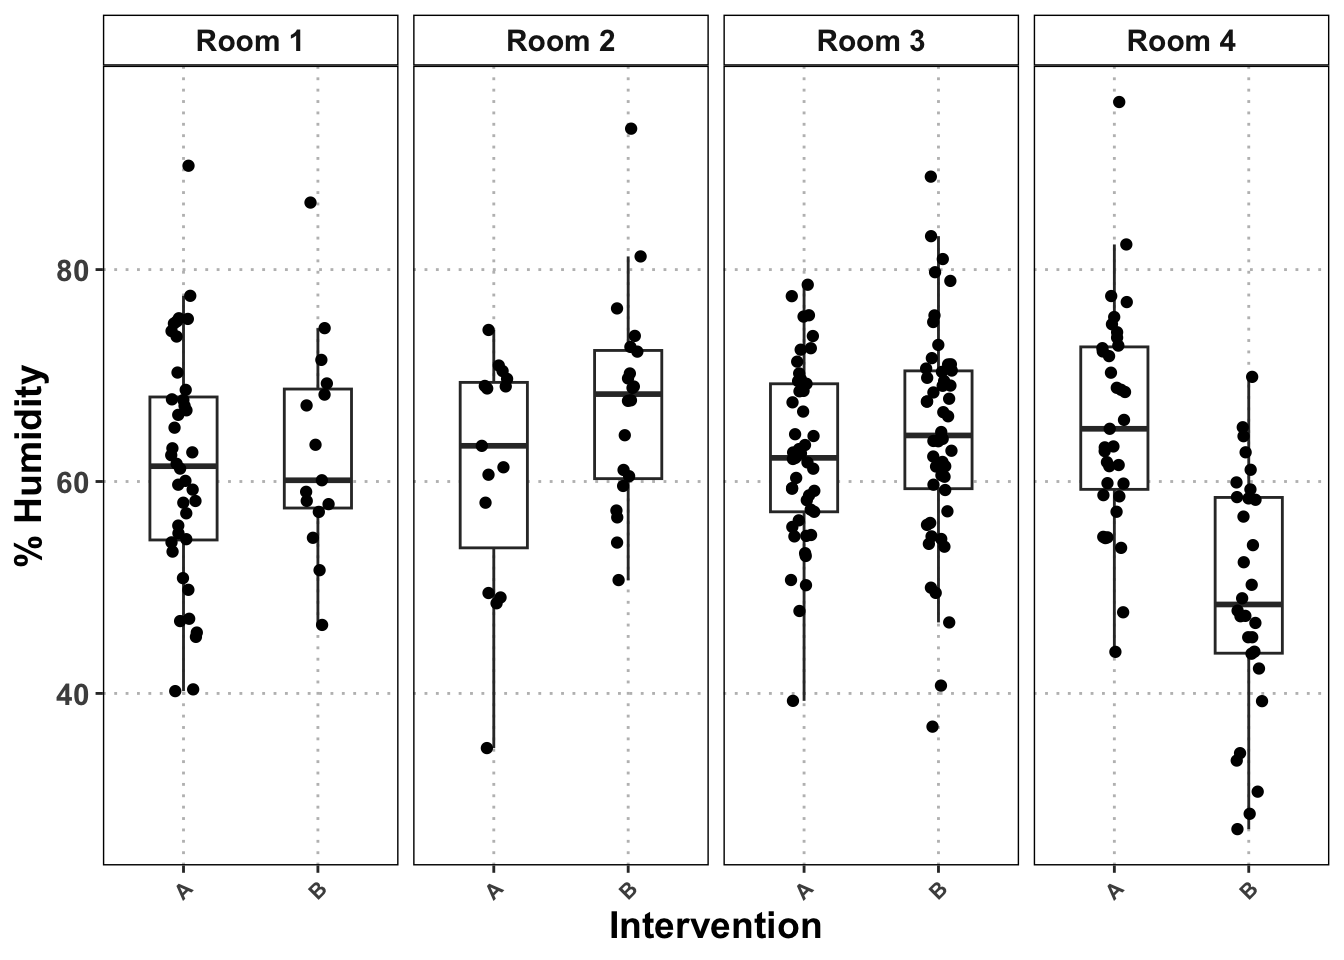
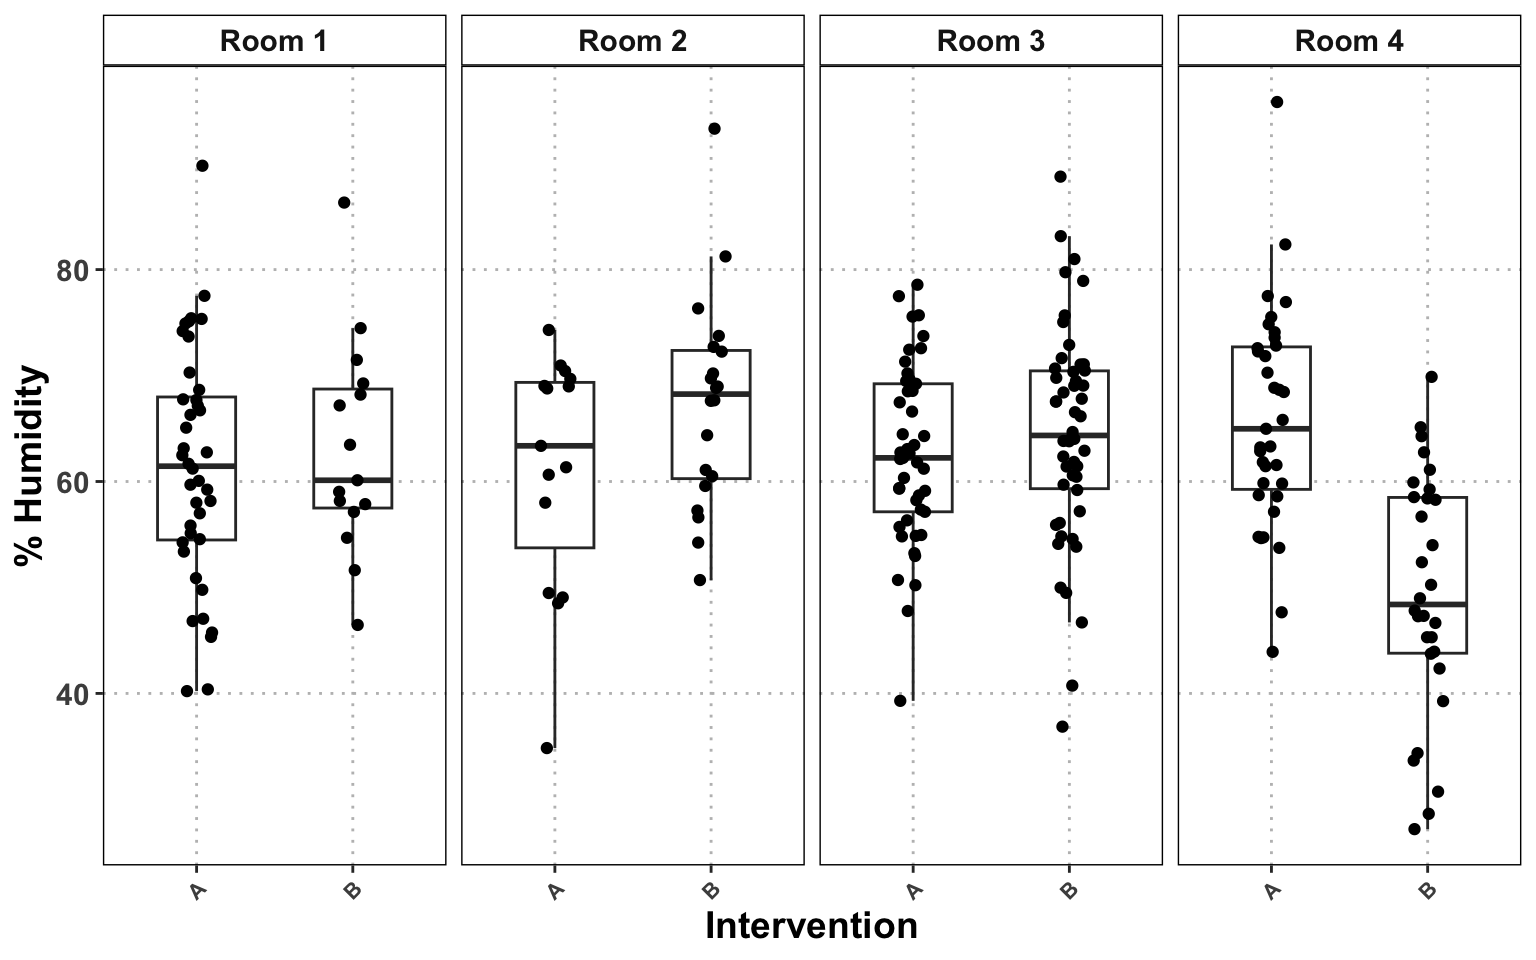
render

diff --git a/docs/B.AAJ-Understanding_your_data.html b/docs/B.AAJ-Understanding_your_data.html
@@ -68,6 +68,9 @@ ul.task-list li input[type="checkbox"] {
     "search-label": "Search"
   }
 }</script>
+<style>html{ scroll-behavior: smooth; }</style>
+<link rel="preconnect" href="https://fonts.googleapis.com">
+<link href="https://fonts.googleapis.com/css2?family=EB+Garamond:ital,wght@0,400;0,500;1,400&amp;family=DM+Mono:wght@300;400&amp;display=swap" rel="stylesheet">
 
 
 <link rel="stylesheet" href="styles.css">
@@ -126,7 +129,7 @@ ul.task-list li input[type="checkbox"] {
 
 <div style="max-width: 900; margin: 0 auto; padding: 2rem 3rem;">
 <div style="margin-bottom: 2rem;">
-<p><a href="index.html">← Back</a></p>
+<p><a href="index.html#service-understanding-example">← Back to Services</a></p>
 </div>
 <h1>
 Understanding Your Data
@@ -135,12 +138,12 @@ Understanding Your Data
 <section id="example" class="level1">
 <h1>Example</h1>
 <p>In an observational study, we were looking at the effects of two surgical interventions (A, B). The surgical interventions were applied across multiple rooms (1, 2, 3, 4). Hospital facilities experts in charge of environmental controls assured us that the rooms were identical in their ability to manage the environment. One thing that was known to fluctuate was humidity, which was affected by the outdoor humidity. When outdoor humidity rose, environmental controls responded by decreasing the humidity to keep humidity levels below a certain point. However when outdoor humidity fell, the room controls did not add humidity. Thus humidity was known to fall when it was dry outside. We thus made the decision to collect room humidity data.</p>
-<p>In our initial analysis, we noticed that % humidity in room 4, specifically for intervention B had lower humidities compared to intervention A in the same room and both interventions across the other rooms (see figure below). This was a cause for concern since if the rooms were identical, why was the humidity for one room for one intervention noticeably different from the others. Further, this could have been a signal that the rooms were, in fact, not identical. Our initial response was that there may be some kind of relationship or interaction between intervention B and room 4 that ultimately caused a drop in humidity. We prepared to account for this in our final model, potentially including room number as a covariate to account for any additional variation caused by differences between rooms.</p>
+<p>In our initial analysis, we noticed that % humidity in room 4, specifically for intervention B had lower humidities compared to intervention A in the same room and both interventions across the other rooms (see figure below). This was a cause for concern since if the rooms were identical, why was the humidity for one room for one intervention noticeably different from the others? Further, this could have been a signal that the rooms were, in fact, not identical. Our initial response was that there may be some kind of relationship or interaction between intervention B and room 4 that ultimately caused a drop in humidity. We prepared to account for this in our final model, potentially including room number as a covariate.</p>
 <div class="cell" data-layout-align="center">
 <div class="cell-output-display">
 <div class="quarto-figure quarto-figure-center">
 <figure class="figure">
-<p><img src="B.AAJ-Understanding_your_data_files/figure-html/unnamed-chunk-3-1.png" class="img-fluid quarto-figure quarto-figure-center figure-img" width="672"></p>
+<p><img src="B.AAJ-Understanding_your_data_files/figure-html/unnamed-chunk-3-1.png" class="img-fluid quarto-figure quarto-figure-center figure-img" width="768"></p>
 </figure>
 </div>
 </div>
@@ -156,7 +159,7 @@ Understanding Your Data
 </div>
 </div>
 <div style="margin-bottom: 2rem;">
-<p><a href="index.html">← Back</a></p>
+<p><a href="index.html">← Back to Services</a></p>
 </div>
 </section>
 </div>
@@ -569,4 +572,5 @@ Understanding Your Data
 
 
 
+<script src="site_libs/quarto-html/zenscroll-min.js"></script>
 </body></html>

diff --git a/docs/index.html b/docs/index.html
@@ -165,9 +165,11 @@ ul.task-list li input[type="checkbox"] {
           <h3 class="anchored">Data cleaning, merging and formatting</h3>
           <p>Sometimes data has been collected, but it's not quite ready for analysis. Human errors in data entry can cause incongruencies that make analysis difficult. Sometimes data comes from multiple sources and they need to be merged. And other times, data is in various formats that cannot coexist without compromising the integrity of your data. These issues are often the most challenging and time-consuming part of data work. I perform the complex operations needed to get your dataset in shape for your analysis while keeping a record of each operation to ensure reproducibility and repeatability.</p>
         </div>
-        <div class="service-card">
+        <div class="service-card" id="service-understanding-example">
           <h3 class="anchored">Understanding your data</h3>
-          <p>Often the most important part of data work. I have found that statistics is most empowering for both the statistical and non-statistical expert when they have a nuanced and rich understanding of their data. I explore the data thoroughly and explain intricate phenomenon and patterns using salient visualizations that support an intuitive understanding of the final statistical model. <a href="B.AAJ-Understanding_your_data.html">Click here for an example.</a></p>
+          <p>Often the most important part of data work. I have found that statistics is most empowering for both the statistical and non-statistical expert when they have a nuanced and rich understanding of their data. I explore the data thoroughly and explain intricate phenomenon and patterns using salient visualizations that support an intuitive understanding of the final statistical model. 
+          <br><br>
+          <a href="B.AAJ-Understanding_your_data.html">Click here for an example.</a></p>
         </div>
         <div class="service-card">
           <h3 class="anchored">Statistical modeling</h3>
